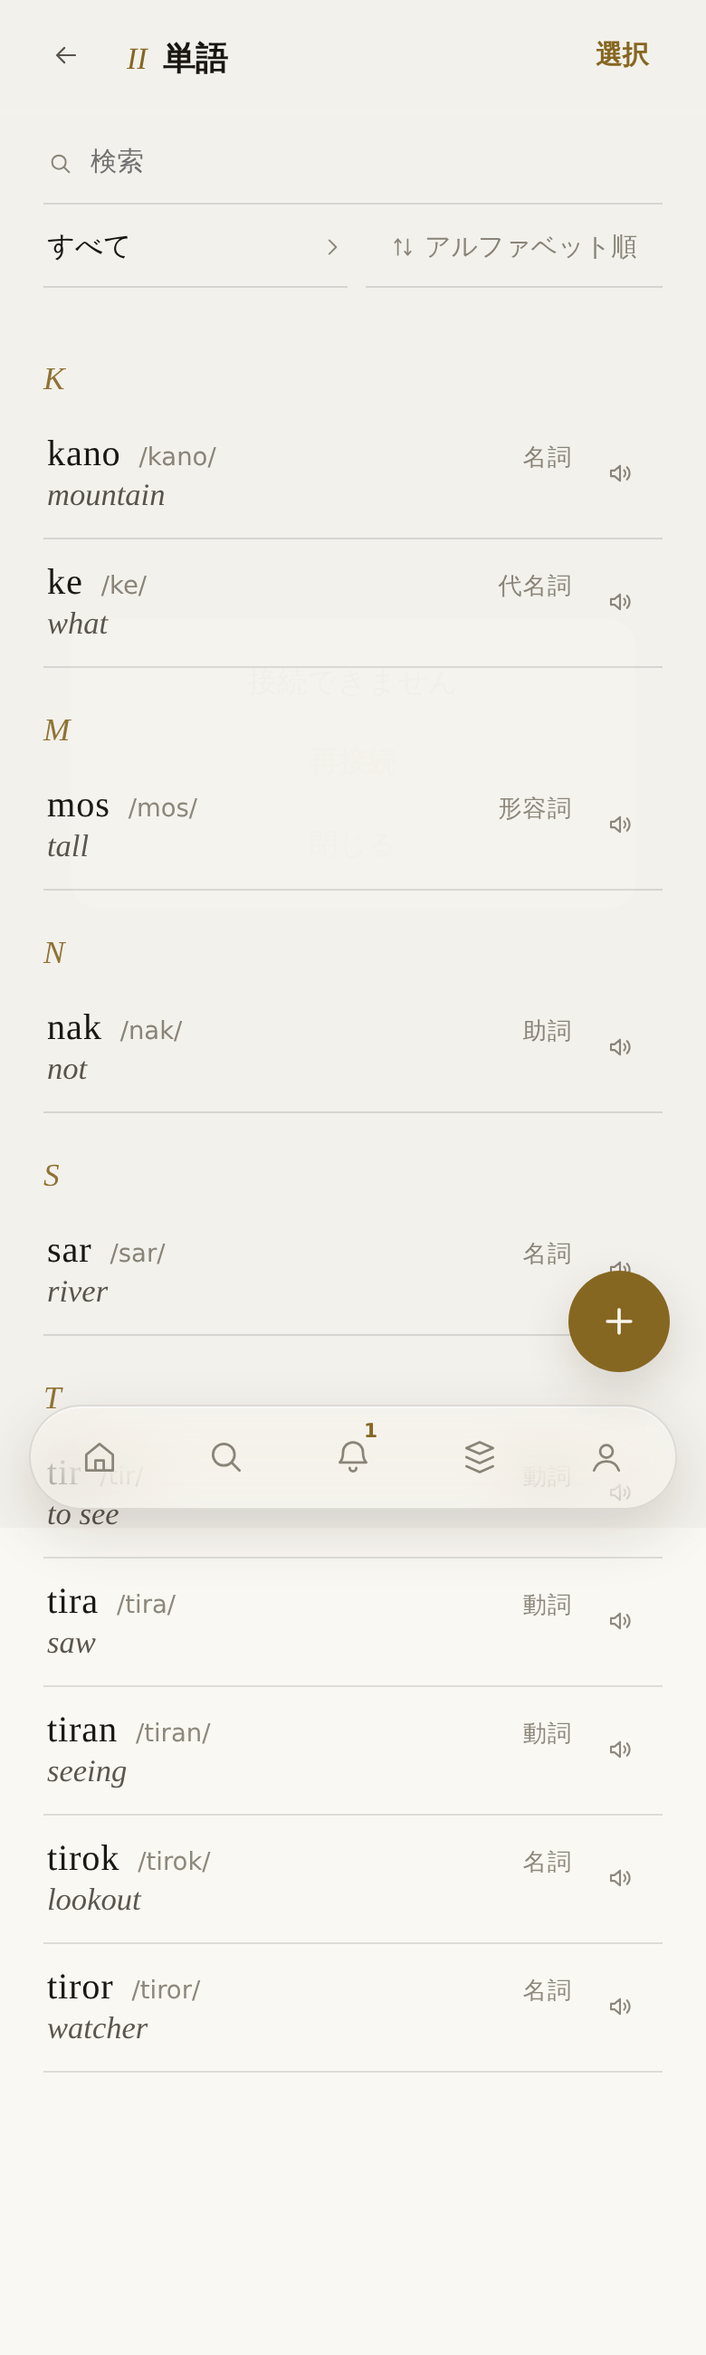
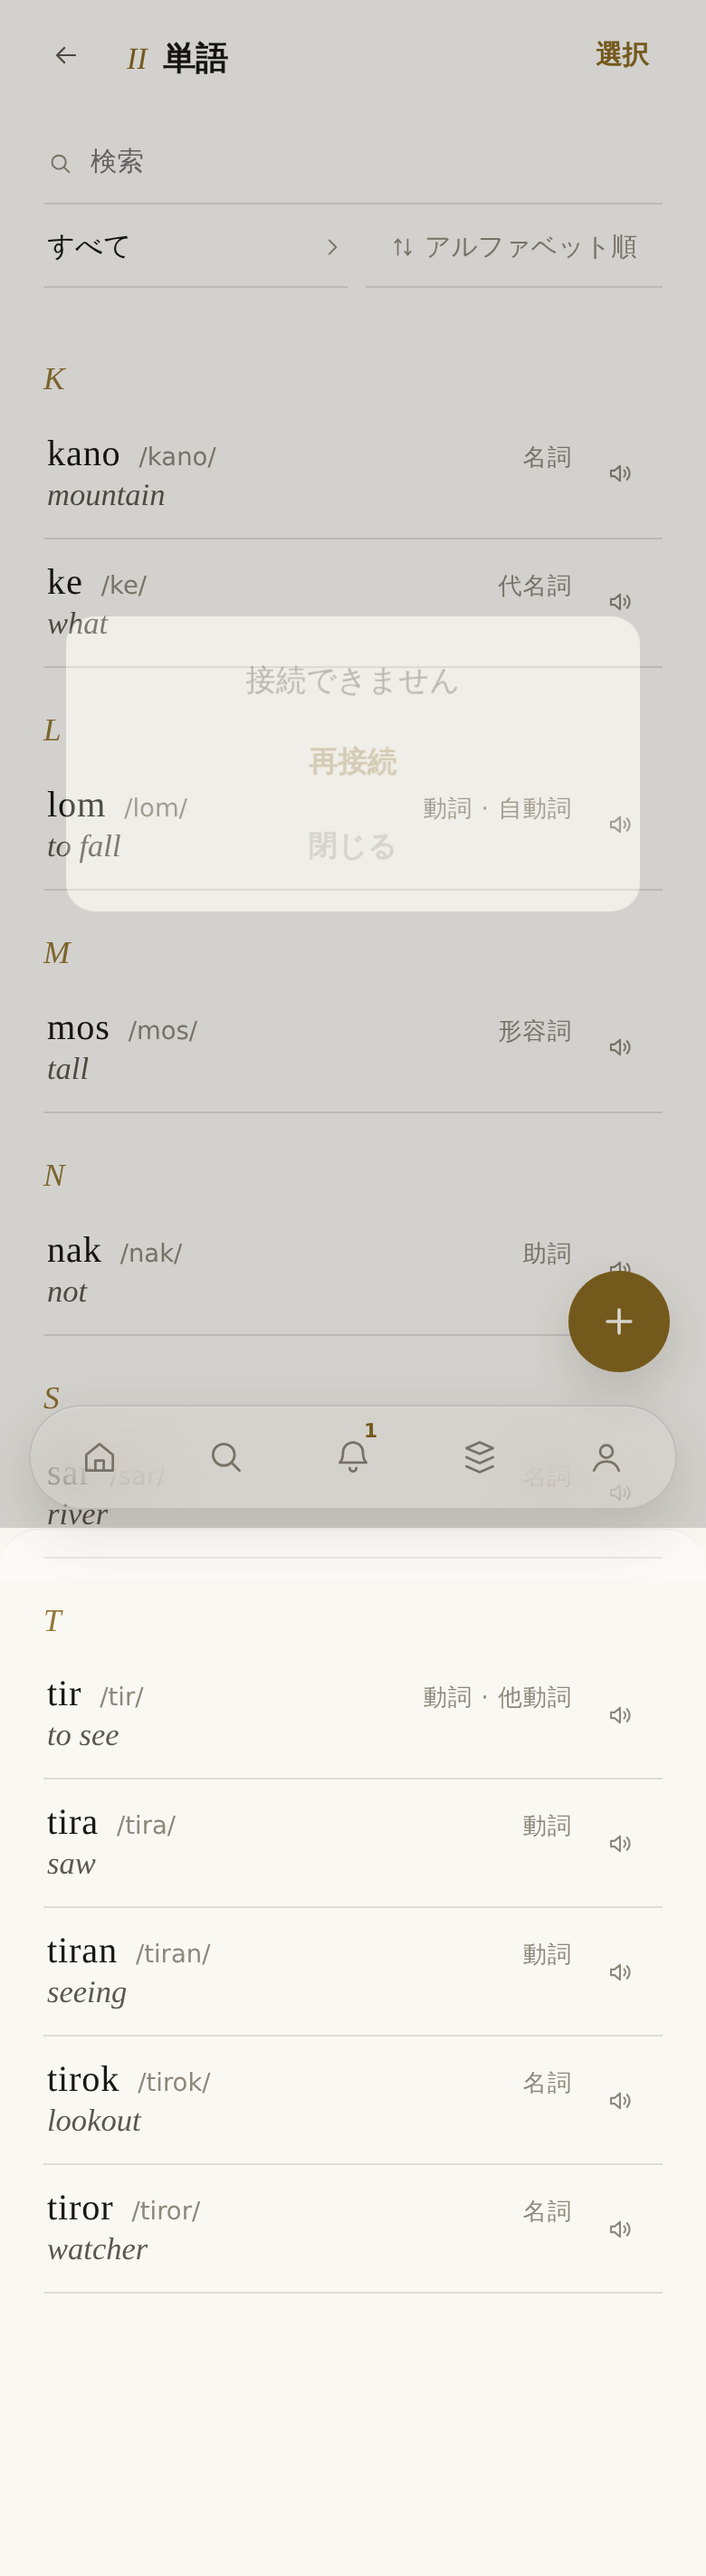
品詞の下に、人が作る下位分類

diff --git a/www/wordsheet.js b/www/wordsheet.js
@@ -70,7 +70,7 @@ function openAdd(from){
     wdMnNew=false; wdExNew=false;
     if(addFrom) addW.from=addFrom;
     wEdit={seq:[], sp:(par? JSON.parse(JSON.stringify(spOf(par))) : []),
-           mns:[], pos:addPos, reg:'', tags:[], ety:'', nt:''};
+           mns:[], pos:addPos, sub:'', reg:'', tags:[], ety:'', nt:''};
     addFmClear();
     wdSync();
   }
@@ -1094,6 +1094,49 @@ function vPos(){
     }).join('')+'</div></div>';
 }
 function posPick(k){ wdSetPos(k); relDirty(); back(); }
+/* ---- and the one the person made themselves ----------------------------
+   OWNER 2026-09-05: the thirteen stay the thirteen and a subclass goes under
+   one of them. www/shell.js § subsOf() is what a subclass IS -- what words
+   are already in -- so this screen is that list and a box to write one that
+   is not on it yet.
+
+   It is a form and not a route, which is what posPick's screen would be if it
+   were written today: the list is one press deep, it is built from the
+   dictionary rather than from anything stored, and a route would be a second
+   place saying that a word has a subclass.
+
+   The subclasses OF THIS PART OF SPEECH and no others. 動詞 → 自動詞 is not
+   an answer about a noun, and one list holding every subclass in the language
+   is the row of chips CLAUDE.md forbids wearing a list's clothes. */
+function wdSubHTML(){
+  return wdPickRow(t('f.sub'), wEdit.sub || t('f.sub.none'), DO('openSub'));
+}
+function openSub(){
+  var subs=subsOf(wEdit? wEdit.pos : ''), now=(wEdit && wEdit.sub) || '';
+  openForm('wsub', t('f.sub'),
+    /* "None" is a row like the others and is ticked when there is none, so
+       taking a subclass off is the same press as putting one on. */
+    wdOneHTML(t('f.sub.none'), !now, 'subPick', '')+
+    subs.map(function(x){
+      return wdOneHTML(x, x===now, 'subPick', x);
+    }).join('')+
+    '<div class="sec">'+t('f.sub.new')+'</div>'+
+    '<div class="field">'+
+      lnField('wd-sub', '', ' aria-label="'+esc(t('f.sub.new'))+'"'+
+              KD('subNew'), '')+'</div>');
+}
+FORM_OPEN.wsub=function(){ openSub(); };
+function subPick(x){ wdSetSub(x); relDirty(); back(); }
+/* Enter on the box is what makes one. There is no button beside it: a name
+   typed and not pressed is a subclass somebody believes they made, and Enter
+   is what every other one-line box on this sheet already answers to. */
+function subNew(){
+  var el=document.getElementById('wd-sub'), x;
+  if(!el) return;
+  x=String(el.value||'').trim();
+  if(!x) return;
+  wdSetSub(x); relDirty(); back();
+}
 function vReg(){
   if(!wEdit) return viewGone();
   return '<div class="view">'+navTop()+'<div class="body">'+
@@ -1180,6 +1223,7 @@ function wdFormHTML(){
        to. They had a heading each over a box each. */
     '<div style="margin-top:22px">'+
       wdPickRow(t('f.pos'), posLabel(wEdit.pos), DO('go', ["pos"]))+
+      wdSubHTML()+
       (wdFrom()? wdFmHTML() : '')+
       wdRegHTML()+
     '</div>'+
@@ -1257,17 +1301,17 @@ function wdSaveBtn(){
 
    `mn` is not in the signature: it is the first meaning, written from `mns` by
    saveWord(), so it would be the same fact counted twice. */
-function wdSig(sp, mns, pos, reg, tags, ety, nt){
-  return JSON.stringify([sp||[], mns||[], pos||'', reg||'', tags||[],
-                         String(ety||''), String(nt||'')]);
+function wdSig(sp, mns, pos, sub, reg, tags, ety, nt){
+  return JSON.stringify([sp||[], mns||[], pos||'', String(sub||''), reg||'',
+                         tags||[], String(ety||''), String(nt||'')]);
 }
 function wdSigEdit(){
-  return wdSig(wEdit.sp, wEdit.mns, wEdit.pos, wEdit.reg, wEdit.tags,
-               wEdit.ety, wEdit.nt);
+  return wdSig(wEdit.sp, wEdit.mns, wEdit.pos, wEdit.sub, wEdit.reg,
+               wEdit.tags, wEdit.ety, wEdit.nt);
 }
 function wdSigWord(w){
-  return wdSig(spOf(w), wMns(w), w.pos, w.reg||'', (w.tags||[]).slice(),
-               w.ety||'', w.nt||'');
+  return wdSig(spOf(w), wMns(w), w.pos, subOf(w), w.reg||'',
+               (w.tags||[]).slice(), w.ety||'', w.nt||'');
 }
 function wdKeepOn(){
   if(!wEdit || !openHw || addW || langLocked()) return;
@@ -1449,7 +1493,7 @@ function openEdit(hw){
   var w=findWord(hw); if(!w) return;
   openHw=w.hw; addW=null; wdMnNew=false; wdExNew=false;
   wEdit={seq:wPh(w).slice(), sp:JSON.parse(JSON.stringify(spOf(w))), mns:wMns(w).slice(),
-         pos:w.pos, reg:w.reg||'', tags:(w.tags||[]).slice(),
+         pos:w.pos, sub:subOf(w), reg:w.reg||'', tags:(w.tags||[]).slice(),
          ety:w.ety||'', nt:w.nt||''};
   /* The mark this sheet's changes are measured from, taken before anything is
      drawn out of wEdit. Off the WORD and not off wEdit, so that the two being
@@ -1470,7 +1514,17 @@ function wdSync(){ wEdit.seq=spPh(wEdit.sp||[]); }
    assignments. Each is one line now, in a file a checker can read. */
 function goPlans(){ go('plans'); }
 function wdSetNt(v){ wEdit.nt=v; wdKeepTouch(); }
-function wdSetPos(v){ wEdit.pos=v; }
+/* A subclass belongs UNDER a part of speech, so a part of speech that MOVES
+   leaves the old one standing under a heading it was never about -- 自動詞 on
+   a noun, offered to the next word by subsOf('n') the moment it is saved. It
+   is dropped rather than carried across or guessed at, and nothing is lost
+   that anybody else had: subsOf() reads the dictionary, so the name is still
+   on the list for as long as one word is still in it. */
+function wdSetPos(v){
+  if(wEdit.pos!==v) wEdit.sub='';
+  wEdit.pos=v;
+}
+function wdSetSub(v){ wEdit.sub=String(v||'').trim(); }
 /* A reading typed whole, given back to the positions that make it up.
 
    The sounds are cut out of what was typed and handed along in order, one to
@@ -1512,6 +1566,11 @@ function wdPutExtras(w){
   if(String(wEdit.nt||'').trim()) w.nt=String(wEdit.nt).trim(); else delete w.nt;
   if(String(wEdit.ety||'').trim()) w.ety=String(wEdit.ety).trim(); else delete w.ety;
   if(wEdit.reg) w.reg=wEdit.reg; else delete w.reg;
+  /* Empty is no subclass rather than an empty one, which is what `sub` being
+     absent means everywhere else -- subsOf() collects what words are IN, and
+     a word carrying '' would be a fourteenth thing on nobody's list. */
+  if(String(wEdit.sub||'').trim()) w.sub=String(wEdit.sub).trim();
+  else delete w.sub;
   /* `fm` is written where it is chosen, not here. What is here is the one
      thing Save has to hold: a form of nothing is not a form, so a word with
      no parent cannot carry one. */

diff --git a/www/words.js b/www/words.js
@@ -86,6 +86,27 @@ function wSelTap(hw){
   if(wSel[hw]) delete wSel[hw]; else wSel[hw]=1;
   render();
 }
+/* ---- what the list is narrowed to --------------------------------------
+   `wFil` is one of: `*` (everything), `nomn` (nothing said about it yet), a
+   part of speech, or a part of speech AND a subclass under it, written
+   `v:自動詞`. OWNER 2026-09-05 put the person's own subclasses under the
+   thirteen (www/shell.js § subsOf), and this is the one thing that had to
+   change on this screen to hold them.
+
+   ONE KEY AND NOT TWO. A second global beside this one would be a second
+   thing viewReset() has to forget and a second thing openFil() has to keep in
+   step -- and the day one is forgotten and the other is not, the list is
+   filtered by a subclass of a part of speech nobody is looking at. A colon,
+   because it is what a form's own argument already uses to carry two things
+   (www/home.js § formArg). */
+function wFilPos(k){
+  var s=String(k||''), i=s.indexOf(':');
+  return (i<0)? s : s.slice(0, i);
+}
+function wFilSub(k){
+  var s=String(k||''), i=s.indexOf(':');
+  return (i<0)? '' : s.slice(i+1);
+}
 function wFilters(){
   var out=[{k:POS_ALL, lab:posLabel(POS_ALL)}], i;
   for(i=0;i<POS.length;i++) out.push({k:POS[i], lab:posLabel(POS[i])});
@@ -123,8 +144,12 @@ function wordsHidden(){ return WORDS.length-wordsSeen().length; }
    that says them all can never disagree about it. */
 function wordsList(){
   var items=wordsSeen().slice(), qq=String(q||'').trim().toLowerCase();
+  var fp=wFilPos(wFil), fs=wFilSub(wFil);
   if(wFil==='nomn') items=items.filter(function(w){ return !wMns(w).length; });
-  else if(wFil!==POS_ALL) items=items.filter(function(w){ return w.pos===wFil; });
+  else if(fp!==POS_ALL){
+    items=items.filter(function(w){ return w.pos===fp; });
+    if(fs) items=items.filter(function(w){ return subOf(w)===fs; });
+  }
   if(qq) items=items.filter(function(w){ return srcKey(w).indexOf(qq)>=0; });
   /* Alphabetically within a group as well as without one, so a part of
      speech holding two hundred words is still a list a word can be found in.
@@ -303,20 +328,39 @@ function wordsSetQ(v){ q=v; lnGrow('w-q'); wordsPaint(); }
    nearly always the first half of typing a different one. */
 /* What the list is filtered to, as a word. */
 function wFilLab(){
-  var fs=wFilters(), i;
+  var fs=wFilters(), i, sub=wFilSub(wFil);
+  /* The subclass is the narrower of the two, so it is what the button says.
+     "動詞" over a list of nothing but 自動詞 is the screen naming the wrong
+     one of the two things it is doing. */
+  if(sub) return sub;
   for(i=0;i<fs.length;i++) if(fs[i].k===wFil) return fs[i].lab;
   return posLabel(POS_ALL);
 }
 /* The list, on a sheet. Every kind that has a word in it, and the count
    beside each -- which the row of tabs could not show and is most of what
    somebody is choosing on. */
+function wFilRow(k, lab){
+  return '<button class="set"' + DO('wordsSetFil', [k]) + '>'+
+    '<span class="sl'+(wFil===k? ' on':'')+'">'+esc(lab)+'</span>'+
+    (wFil===k? '<span class="sv">'+ICON_TICK+'</span>' : '')+'</button>';
+}
+/* And, underneath, the subclasses of whichever part of speech is chosen --
+   OWNER 2026-09-05. Only of that one, and only when a word is actually in
+   one: a heading over an empty list is a screen explaining that this language
+   does not use a feature, which is CLAUDE.md § Explaining.
+
+   Choosing the part of speech again is how the subclass comes off, because
+   its row is the one already at the top of this list and is ticked whenever
+   no subclass is chosen. There is no second "all" to press. */
 function openFil(){
-  var fs=wFilters();
-  openForm('wfil', t('f.pos'), fs.map(function(f){
-    return '<button class="set"' + DO('wordsSetFil', [f.k]) + '>'+
-      '<span class="sl'+(wFil===f.k? ' on':'')+'">'+esc(f.lab)+'</span>'+
-      (wFil===f.k? '<span class="sv">'+ICON_TICK+'</span>' : '')+'</button>';
-  }).join(''));
+  var fs=wFilters(), pos=wFilPos(wFil),
+      subs=(pos && pos!==POS_ALL && pos!=='nomn')? subsOf(pos) : [];
+  openForm('wfil', t('f.pos'),
+    fs.map(function(f){ return wFilRow(f.k, f.lab); }).join('')+
+    (subs.length?
+      '<div class="sec">'+esc(t('f.sub'))+'</div>'+
+      subs.map(function(x){ return wFilRow(pos+':'+x, x); }).join('')
+      : ''));
 }
 FORM_OPEN.wfil=function(){ openFil(); };
 function wordsSetFil(k){
@@ -445,7 +489,13 @@ function wordsUndoHTML(){
 function wEntryLines(w, mn){
   return '<div class="hwrow"><span class="hw">'+esc(wOut(w.hw))+'</span>'+
     '<span class="rd">'+esc(phIpa(wPh(w)))+'</span>'+
-    '<span class="pos">'+esc(posLabel(w.pos))+'</span></div>'+
+    /* The subclass sits INSIDE the same span as the part of speech, not in
+       one beside it. `.pos` carries `margin-left:auto` -- two of them is two
+       things each pushed to the right of the other -- and a row of this list
+       is one height, which a second element with its own type size is how you
+       lose (CLAUDE.md § Rows in one list are one height). */
+    '<span class="pos">'+esc(posLabel(w.pos)+
+      (subOf(w)? ' \u00b7 '+subOf(w) : ''))+'</span></div>'+
     /* A word nobody has given a meaning to yet has NO second line. Not an
        empty one -- there is nothing to put on it, and a row is as tall as
        what is on it, which is already true of this list: one meaning is a

diff --git a/www/shell.js b/www/shell.js
@@ -1907,6 +1907,33 @@ function posLabel(k){
   if(k===POS_ALL) return langDef().all;
   return langDef().pos[k]||k;
 }
+/* ---- and what a person puts UNDER one -----------------------------------
+   OWNER 2026-09-05: the thirteen above stay the thirteen, and underneath them
+   somebody makes their own -- 動詞 → 自動詞／他動詞, 名詞 → 固有／普通. A word
+   carries `sub`, which is the person's own words and nothing the app knows.
+
+   THE GRAMMAR IS NOT TOLD. What reaches the engine is `pos`, still one of the
+   thirteen, so a language that divides its verbs in two is not a language the
+   rules have to be rewritten for. `sub` is read by the dictionary and by the
+   sheet a word is written on, and by nothing else.
+
+   It is not a list kept anywhere. A subclass EXISTS because a word is in it,
+   which is why there is nothing to make first, nothing to delete when the
+   last word leaves it, and nothing that can be out of step with the words --
+   the same shape `tags` already has. So this is the one place that asks the
+   dictionary what subclasses a part of speech has, and every screen that
+   offers them asks it here. */
+function subOf(w){ return String((w && w.sub) || '').trim(); }
+function subsOf(pos){
+  var out=[], i, s;
+  for(i=0;i<WORDS.length;i++){
+    if(pos && WORDS[i].pos!==pos) continue;
+    s=subOf(WORDS[i]);
+    if(s && out.indexOf(s)<0) out.push(s);
+  }
+  out.sort();
+  return out;
+}
 /* A CSV can say 名詞, noun or n; all three are accepted as the same key */
 function posKey(s){
   var v=String(s||'').trim();

diff --git a/www/i18n/ru.js b/www/i18n/ru.js
@@ -904,6 +904,9 @@ defLang('ru', (function(){
       "f.meaning"         : "Значение",
       "f.meaning.ph"      : "звезда",
       "f.pos"             : "Часть речи",
+      "f.sub"             : "Подкласс",
+      "f.sub.new"         : "Новый подкласс",
+      "f.sub.none"        : "Нет",
       "add.btn"           : "Добавить",
       "toast.hw2"         : "В написании нужно хотя бы две буквы",
       "toast.dup"         : "Такое слово уже есть",

diff --git a/www/act-map.js b/www/act-map.js
@@ -361,6 +361,8 @@ act('fmPick', fmPick);
 act('fmSay', fmSay);
 act('fmOpen', fmOpen);
 act('posPick', posPick);
+act('openSub', openSub);
+act('subPick', subPick);
 /* Forms made by a rule: writing one, and asking a word for the ones it has
    not got. */
 act('fmrNew', fmrNew);
@@ -378,6 +380,7 @@ actIn('wdSetEty', wdSetEty);
 actKey('obName', obName);
 actKey('snsGo', snsGo);
 actKey('stAddEx', stAddEx);
+actKey('subNew', subNew);
 actKey('takeOwn', takeOwn);
 actKey('wdAddEx', wdAddEx);
 actKey('wdAddMn', wdAddMn);

diff --git a/www/i18n/de.js b/www/i18n/de.js
@@ -879,6 +879,9 @@ defLang('de', (function(){
       "f.meaning"        : "Bedeutung",
       "f.meaning.ph"     : "Stern",
       "f.pos"            : "Wortart",
+      "f.sub"            : "Unterklasse",
+      "f.sub.new"        : "Neue Unterklasse",
+      "f.sub.none"       : "Keine",
       "add.btn"          : "Hinzufügen",
       "toast.hw2"        : "Eine Schreibweise braucht zwei Buchstaben oder mehr",
       "toast.dup"        : "Dieses Wort gibt es schon",

diff --git a/www/i18n/it.js b/www/i18n/it.js
@@ -891,6 +891,9 @@ defLang('it', (function(){
       "f.meaning"        : "Significato",
       "f.meaning.ph"     : "stella",
       "f.pos"            : "Parte del discorso",
+      "f.sub"            : "Sottoclasse",
+      "f.sub.new"        : "Nuova sottoclasse",
+      "f.sub.none"       : "Nessuna",
       "add.btn"          : "Aggiungi",
       "toast.hw2"        : "Una grafia vuole almeno due lettere",
       "toast.dup"        : "Quella parola esiste già",

diff --git a/www/i18n/pt.js b/www/i18n/pt.js
@@ -897,6 +897,9 @@ defLang('pt', (function(){
       "f.meaning"        : "Significado",
       "f.meaning.ph"     : "estrela",
       "f.pos"            : "Classe gramatical",
+      "f.sub"            : "Subclasse",
+      "f.sub.new"        : "Nova subclasse",
+      "f.sub.none"       : "Nenhuma",
       "add.btn"          : "Adicionar",
       "toast.hw2"        : "Uma grafia precisa de duas letras ou mais",
       "toast.dup"        : "Essa palavra já existe",

diff --git a/www/i18n/fr.js b/www/i18n/fr.js
@@ -938,6 +938,9 @@ defLang('fr', (function(){
       "f.meaning"        : "Sens",
       "f.meaning.ph"     : "étoile",
       "f.pos"            : "Nature du mot",
+      "f.sub"            : "Sous-classe",
+      "f.sub.new"        : "Nouvelle sous-classe",
+      "f.sub.none"       : "Aucune",
       "add.btn"          : "Ajouter",
       "toast.hw2"        : "Une graphie demande au moins deux lettres",
       "toast.dup"        : "Ce mot existe déjà",

diff --git a/www/i18n/ko.js b/www/i18n/ko.js
@@ -1065,6 +1065,9 @@ defLang('ko', (function(){
       "f.meaning"        : "뜻",
       "f.meaning.ph"     : "별",
       "f.pos"            : "품사",
+      "f.sub"            : "하위 분류",
+      "f.sub.new"        : "새로 만들기",
+      "f.sub.none"       : "없음",
       "add.btn"          : "담기",
       "toast.hw2"        : "철자는 두 글자 이상이어야 해요",
       "toast.dup"        : "이미 있는 낱말이에요",

diff --git a/www/i18n/es.js b/www/i18n/es.js
@@ -850,6 +850,9 @@ defLang('es', (function(){
       "f.meaning"        : "Significado",
       "f.meaning.ph"     : "estrella",
       "f.pos"            : "Categoría",
+      "f.sub"            : "Subclase",
+      "f.sub.new"        : "Nueva subclase",
+      "f.sub.none"       : "Ninguna",
       "add.btn"          : "Añadir",
       "toast.hw2"        : "Una grafía necesita dos letras o más",
       "toast.dup"        : "Esa palabra ya existe",

diff --git a/www/i18n/ja.js b/www/i18n/ja.js
@@ -806,6 +806,9 @@ defLang('ja', (function(){
       'f.meaning'       : '意味',
       'f.meaning.ph'    : '星',
       'f.pos'           : '品詞',
+      'f.sub'           : '下位分類',
+      'f.sub.new'       : '新しく作る',
+      'f.sub.none'      : 'なし',
       'add.btn'         : "追加",
       'toast.hw2'       : 'つづりは2文字以上必要です',
       'toast.dup'       : 'すでにある語です',
